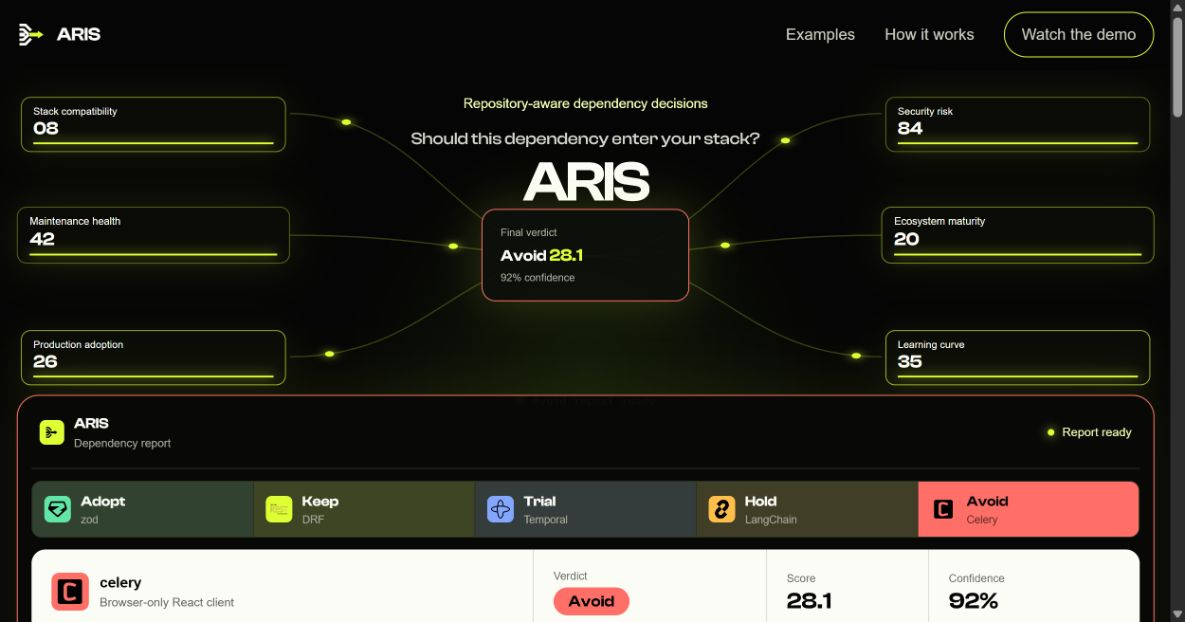
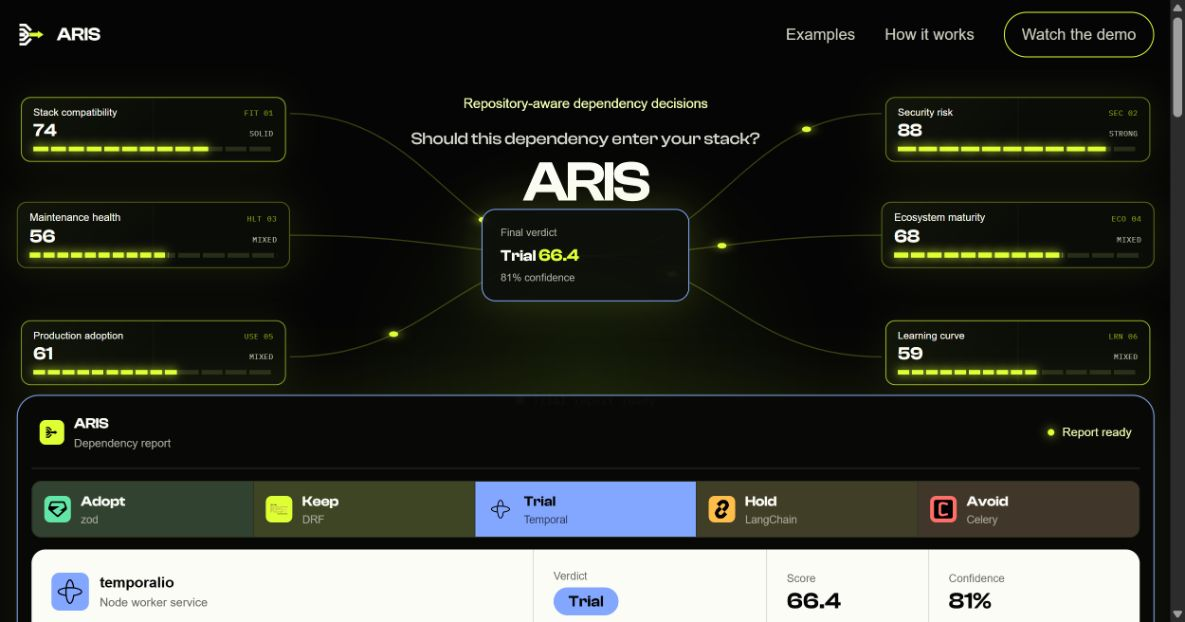
feat(web): enrich live evidence readouts

diff --git a/web/styles.css b/web/styles.css
@@ -75,21 +75,30 @@ a, button { color: inherit; font: inherit; }
 .analysis-complete .result-module { opacity: 1; transform: translate(-50%,-50%) scale(1); border-color: var(--verdict-color); box-shadow: 0 0 42px rgba(223,255,53,.18); }
 
 .dimension-readouts { position: absolute; z-index: 4; inset: 0; pointer-events: none; }
-.dimension-readout { position: absolute; width: 24%; min-width: 0; padding: 8px 12px 7px; border: 1px solid #394028; border-radius: 10px; background: rgba(12,14,9,.72); color: #7e8377; opacity: .28; transform: translateY(6px) scale(.97); transition: opacity 360ms ease, transform 360ms ease, border-color 360ms ease, color 360ms ease, box-shadow 360ms ease; }
+.dimension-readout { position: absolute; width: 24%; min-width: 0; overflow: hidden; padding: 9px 12px 10px; border: 1px solid #394028; border-radius: 10px; background: linear-gradient(135deg,rgba(223,255,53,.035),transparent 48%), rgba(12,14,9,.78); color: #7e8377; opacity: .28; transform: translateY(6px) scale(.97); transition: opacity 360ms ease, transform 360ms ease, border-color 360ms ease, color 360ms ease, box-shadow 360ms ease; }
+.dimension-readout::before { content: ""; position: absolute; inset: 0; pointer-events: none; background: linear-gradient(90deg,transparent 49.7%,rgba(223,255,53,.045) 50%,transparent 50.3%), linear-gradient(transparent 49.7%,rgba(223,255,53,.035) 50%,transparent 50.3%); }
 .dimension-readout:nth-child(1) { left: 0; top: 0; }
 .dimension-readout:nth-child(2) { right: 0; top: 0; }
 .dimension-readout:nth-child(3) { left: 0; top: 50%; transform: translateY(-50%) scale(.97); }
 .dimension-readout:nth-child(4) { right: 0; top: 50%; transform: translateY(-50%) scale(.97); }
 .dimension-readout:nth-child(5) { left: 0; bottom: 0; }
 .dimension-readout:nth-child(6) { right: 0; bottom: 0; }
-.dimension-readout span { display: block; min-height: 0; font-size: clamp(.66rem,.78vw,.76rem); line-height: 1.15; }
-.dimension-readout b { display: block; margin-top: 3px; font: 600 clamp(1.15rem,1.55vw,1.5rem)/1 var(--display); font-variant-numeric: tabular-nums; }
-.dimension-readout i { display: block; width: 0; height: 2px; margin-top: 5px; background: var(--lime); box-shadow: 0 0 12px var(--lime); transition: width 500ms ease; }
+.readout-head, .readout-value { position: relative; z-index: 1; display: flex; align-items: baseline; justify-content: space-between; gap: 10px; }
+.readout-head span { min-width: 0; overflow: hidden; font-size: clamp(.66rem,.78vw,.76rem); line-height: 1.15; text-overflow: ellipsis; white-space: nowrap; }
+.readout-head small { color: #656b5d; font: 500 clamp(.48rem,.52vw,.56rem) var(--mono); letter-spacing: .06em; white-space: nowrap; }
+.readout-value { margin-top: 4px; }
+.readout-value b { font: 600 clamp(1.15rem,1.55vw,1.5rem)/1 var(--display); font-variant-numeric: tabular-nums; }
+.readout-value em { color: #6f7567; font: 500 clamp(.48rem,.52vw,.56rem) var(--mono); letter-spacing: .05em; text-transform: uppercase; }
+.readout-meter { position: relative; z-index: 1; height: 5px; margin-top: 7px; background: repeating-linear-gradient(90deg,#262d19 0,#262d19 calc(10% - 3px),transparent calc(10% - 3px),transparent 10%); }
+.readout-meter i { display: block; width: 0; height: 100%; background: repeating-linear-gradient(90deg,var(--lime) 0,var(--lime) calc(10% - 3px),transparent calc(10% - 3px),transparent 10%); filter: drop-shadow(0 0 5px var(--lime)); transition: width 500ms ease; }
 .dimension-readout.is-scanning { opacity: .78; color: var(--white); border-color: var(--lime-dark); box-shadow: 0 0 34px rgba(223,255,53,.08); }
 .dimension-readout.is-resolved { opacity: 1; color: var(--white); border-color: rgba(223,255,53,.7); box-shadow: 0 0 30px rgba(223,255,53,.06); }
 .dimension-readout:nth-child(3).is-scanning, .dimension-readout:nth-child(3).is-resolved,
 .dimension-readout:nth-child(4).is-scanning, .dimension-readout:nth-child(4).is-resolved { transform: translateY(-50%) scale(1); }
-.dimension-readout.is-resolved i { width: 100%; }
+.dimension-readout.is-scanning .readout-value em { color: var(--lime-soft); }
+.dimension-readout.is-resolved .readout-head small { color: var(--lime-dark); }
+.dimension-readout.is-resolved .readout-value em { color: #aab09f; }
+.dimension-readout.is-resolved .readout-meter i { width: var(--meter,100%); }
 .analysis-complete .dimension-readout.is-resolved { animation: evidence-breathe 4.8s ease-in-out infinite; }
 .analysis-complete .dimension-readout:nth-child(2) { animation-delay: -.8s; }
 .analysis-complete .dimension-readout:nth-child(3) { animation-delay: -1.6s; }

diff --git a/web/index.html b/web/index.html
@@ -19,7 +19,7 @@
     <link rel="preconnect" href="https://cdn.jsdelivr.net" crossorigin />
     <link href="https://api.fontshare.com/v2/css?f[]=clash-display@500,600&amp;f[]=general-sans@400,500,600&amp;display=swap" rel="stylesheet" />
     <link href="https://fonts.googleapis.com/css2?family=IBM+Plex+Mono:wght@400;500&display=swap" rel="stylesheet" />
-    <link rel="stylesheet" href="/styles.css?v=54" />
+    <link rel="stylesheet" href="/styles.css?v=55" />
   </head>
   <body>
     <a class="skip-link" href="#main">Skip to content</a>
@@ -54,12 +54,12 @@
               <div class="package-module" aria-label="Package under evaluation"><span class="package-icon"><img id="hero-icon" src="/brand/dependencies/djangorestframework.svg" alt="" /></span><span><small>Incoming request</small><b id="hero-package">djangorestframework</b><small id="hero-repo">against Wagtail, Python</small></span></div>
               <div class="checks-flow">
                 <div class="dimension-readouts" aria-label="ARIS evidence dimensions">
-                  <div class="dimension-readout" data-dimension="0"><span>Stack compatibility</span><b data-value="90">00</b><i></i></div>
-                  <div class="dimension-readout" data-dimension="1"><span>Security risk</span><b data-value="100">00</b><i></i></div>
-                  <div class="dimension-readout" data-dimension="2"><span>Maintenance health</span><b data-value="48">00</b><i></i></div>
-                  <div class="dimension-readout" data-dimension="3"><span>Ecosystem maturity</span><b data-value="70">00</b><i></i></div>
-                  <div class="dimension-readout" data-dimension="4"><span>Production adoption</span><b data-value="52">00</b><i></i></div>
-                  <div class="dimension-readout" data-dimension="5"><span>Learning curve</span><b data-value="67">00</b><i></i></div>
+                  <div class="dimension-readout" data-dimension="0"><div class="readout-head"><span>Stack compatibility</span><small>FIT 01</small></div><div class="readout-value"><b data-value="90">00</b><em>waiting</em></div><div class="readout-meter"><i></i></div></div>
+                  <div class="dimension-readout" data-dimension="1"><div class="readout-head"><span>Security risk</span><small>SEC 02</small></div><div class="readout-value"><b data-value="100">00</b><em>waiting</em></div><div class="readout-meter"><i></i></div></div>
+                  <div class="dimension-readout" data-dimension="2"><div class="readout-head"><span>Maintenance health</span><small>HLT 03</small></div><div class="readout-value"><b data-value="48">00</b><em>waiting</em></div><div class="readout-meter"><i></i></div></div>
+                  <div class="dimension-readout" data-dimension="3"><div class="readout-head"><span>Ecosystem maturity</span><small>ECO 04</small></div><div class="readout-value"><b data-value="70">00</b><em>waiting</em></div><div class="readout-meter"><i></i></div></div>
+                  <div class="dimension-readout" data-dimension="4"><div class="readout-head"><span>Production adoption</span><small>USE 05</small></div><div class="readout-value"><b data-value="52">00</b><em>waiting</em></div><div class="readout-meter"><i></i></div></div>
+                  <div class="dimension-readout" data-dimension="5"><div class="readout-head"><span>Learning curve</span><small>LRN 06</small></div><div class="readout-value"><b data-value="67">00</b><em>waiting</em></div><div class="readout-meter"><i></i></div></div>
                 </div>
               </div>
               <div class="result-module"><small>Final verdict</small><strong><span id="hero-verdict">Keep</span> <b id="hero-score">72.6</b></strong><small id="hero-confidence">95% confidence</small></div>
@@ -148,6 +148,6 @@
 
     <script src="https://cdn.jsdelivr.net/npm/gsap@3.13.0/dist/gsap.min.js"></script>
     <script src="https://cdn.jsdelivr.net/npm/gsap@3.13.0/dist/ScrollTrigger.min.js"></script>
-    <script src="/app.js?v=45"></script>
+    <script src="/app.js?v=46"></script>
   </body>
 </html>

diff --git a/web/app.js b/web/app.js
@@ -43,6 +43,7 @@ const reportConsole = document.querySelector(".report-console");
 const status = document.querySelector("#analysis-status");
 const resolutionOrder = [0, 3, 1, 5, 2, 4];
 const reportKeys = Object.keys(reports);
+const scoreBand = (score) => score >= 85 ? "strong" : score >= 70 ? "solid" : score >= 55 ? "mixed" : score >= 40 ? "watch" : "weak";
 let desktopStoryTrigger;
 let sequenceTimers = [];
 let sequenceToken = 0;
@@ -115,6 +116,8 @@ function runAnalysis(key, { updateUrl = true } = {}) {
     readout.classList.remove("is-scanning", "is-resolved");
     readout.querySelector("b").textContent = "00";
     readout.dataset.value = report.dimensions[index][0];
+    readout.style.setProperty("--meter", `${report.dimensions[index][0]}%`);
+    readout.querySelector("em").textContent = "waiting";
   });
   document.querySelectorAll(".scene-fallback span").forEach((plate) => plate.classList.remove("is-active"));
 
@@ -127,12 +130,14 @@ function runAnalysis(key, { updateUrl = true } = {}) {
     const scanTimer = setTimeout(() => {
       if (token !== sequenceToken) return;
       readout.classList.add("is-scanning");
+      readout.querySelector("em").textContent = "checking";
       status.textContent = `Comparing ${dimensionNames[index].toLowerCase()} evidence`;
     }, delay + step * cadence);
     const resolveTimer = setTimeout(() => {
       if (token !== sequenceToken) return;
       readout.classList.remove("is-scanning");
       readout.classList.add("is-resolved");
+      readout.querySelector("em").textContent = scoreBand(report.dimensions[index][0]);
       animateNumber(readout.querySelector("b"), report.dimensions[index][0], reducedMotion ? 0 : 360);
     }, delay + step * cadence + (reducedMotion ? 0 : 250));
     sequenceTimers.push(scanTimer, resolveTimer);
